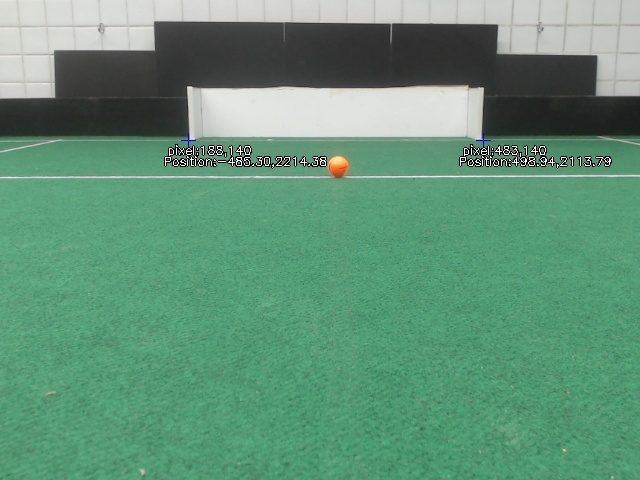
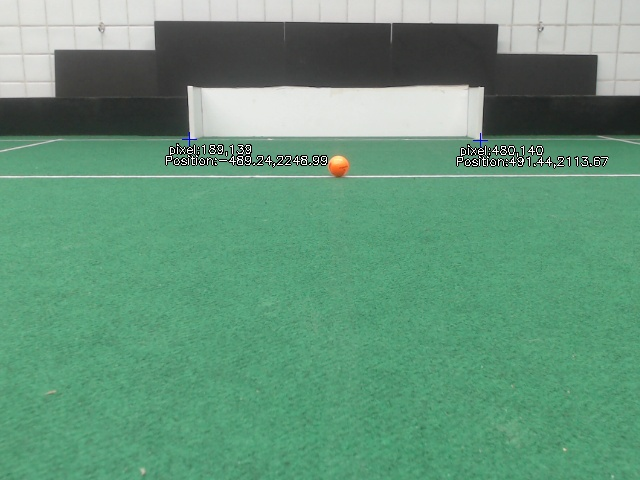
relocalization in test

diff --git a/src/object_localization.py b/src/object_localization.py
@@ -584,14 +584,14 @@ class Camera():
         else:
             w_cos = math.sqrt(1-w_sin**2)
 
-        x1_real = -500
-        y1_real = 2820
+        center_x = 0
+        center_y = 2820
 
-        x2_real = 500
-        y2_real = 2820
+        cam_center_x = (left_corner_x+right_corner_x)/2
+        cam_center_y = (left_corner_y+right_corner_y)/2
 
-        tx = x2_real - right_corner_x*w_sin - right_corner_y*w_cos
-        ty = y2_real + right_corner_x*w_cos - right_corner_y*w_sin
+        tx = center_x - cam_center_x*w_sin - cam_center_y*w_cos
+        ty = center_y + cam_center_x*w_cos - cam_center_y*w_sin
 
         w = math.atan2(w_sin, w_cos)
 
